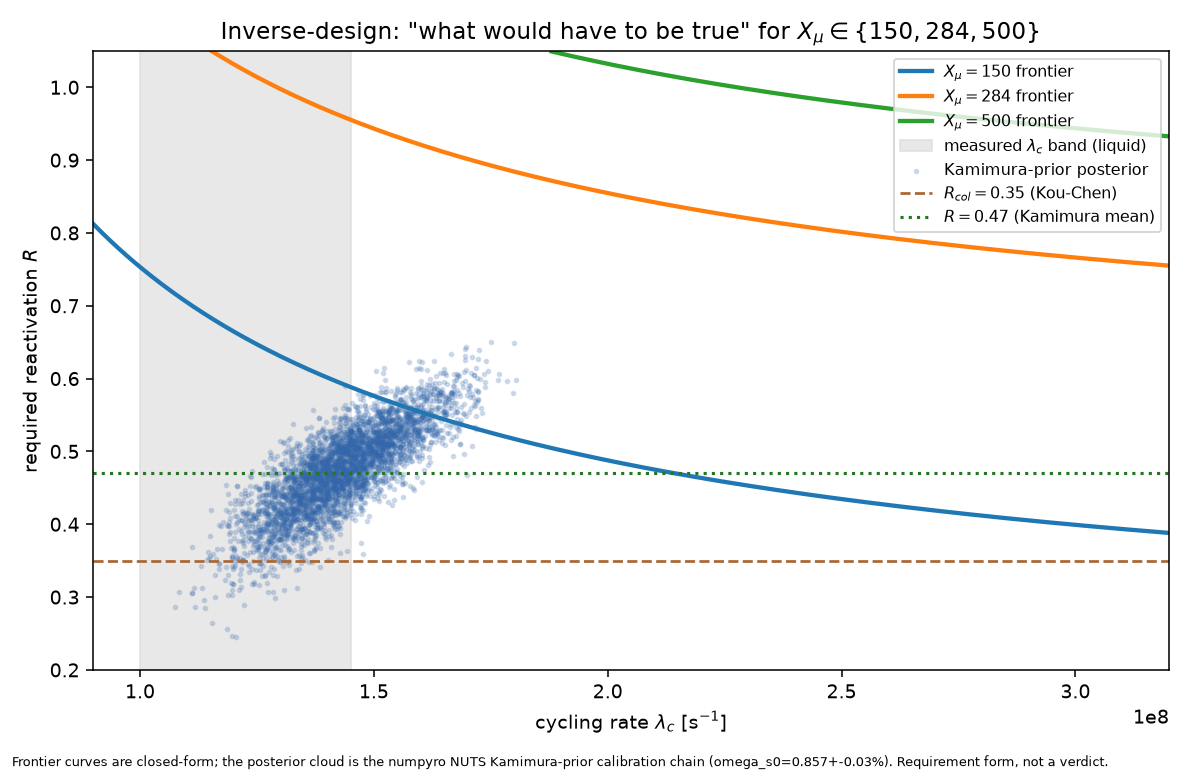
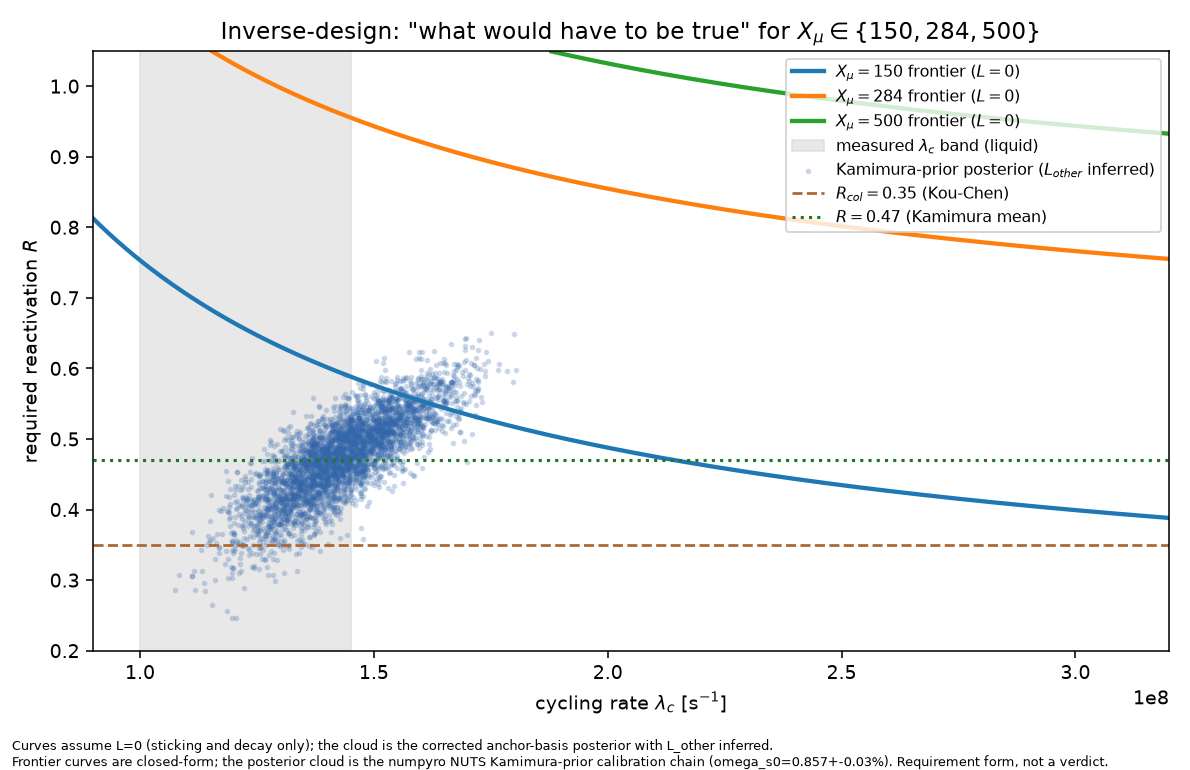
State the side-channel loss in the frontier explanations and the loss conditions of the frontier figure: the decay-free R floor is 1 - (1/X - L)/omega_s0 at fixed L, no finite cycling rate reaches a target when 1/X <= omega_s_eff + L, and the figure and its FRONTIER.md caption say its curves assume 

diff --git a/scripts/generate_frontier.py b/scripts/generate_frontier.py
@@ -58,6 +58,9 @@ R_KAMIMURA_REFERENCE = f"{_R_KAM['mean']:.2f}"
 R_KAMIMURA_SD = f"{_R_KAM['sd']:.2f}"
 # The side-channel loss per cycle at the liquid anchor fill, as the FRACTION frontier.r_required takes.
 L_ANCHOR = sidechannels.ANCHOR_L_OTHER_FRACTION
+# The figure overlays two loss conditions: its curves are r_required at L = 0, its cloud is model_w's posterior.
+FIGURE_CONDITIONS = ("Curves assume L=0 (sticking and decay only); the cloud is the corrected anchor-basis "
+                     "posterior with L_other inferred.")
 
 # Solver worked-example target: a modest q_net (above the nominal operating point) chosen so ALL FOUR free
 # variables have a finite, feasible required value -- a clean cross-check of the four inverses at once.
@@ -221,7 +224,7 @@ digit on its own; it is the general capability, gate-checked against the exact a
 lambda_c band shaded, the **Kamimura-prior calibration posterior cloud** (one NUTS chain on
 `openmucf.calibrate.model_w` with the Kamimura omega_s0 = 0.857 +- 0.03 % prior; the R = {H["R_kamimura"]}
 marker is the posterior mean `CALIBRATION.md` prints), and the R_col = {H["R_col"]} / R = {H["R_kamimura"]} reference markers overlaid --
-the "what would have to be true" picture. (Regenerated every audit; never byte-diffed.)
+the "what would have to be true" picture. {FIGURE_CONDITIONS} (Regenerated every audit; never byte-diffed.)
 """
 
 
@@ -302,12 +305,13 @@ def _write_figure(H: dict[str, str]) -> None:
     fig, ax = plt.subplots(figsize=(8.5, 5.5))
     lc_curve = np.linspace(0.9e8, 3.2e8, 400)
     for X in X_MU_TARGETS:
-        Rv = np.array([r_required(X, float(lc)) for lc in lc_curve])
+        Rv = np.array([r_required(X, float(lc), l_other=0.0) for lc in lc_curve])
         Rv[(Rv < 0.0) | (Rv > 1.05)] = np.nan  # only the physical band
-        ax.plot(lc_curve, Rv, lw=2.2, label=rf"$X_\mu={X:.0f}$ frontier")
+        ax.plot(lc_curve, Rv, lw=2.2, label=rf"$X_\mu={X:.0f}$ frontier ($L=0$)")
 
     ax.axvspan(*LAMBDA_C_BAND, color="0.85", alpha=0.6, label="measured $\\lambda_c$ band (liquid)")
-    ax.scatter(lc_post, R_post, s=4, alpha=0.18, color="#3366aa", label="Kamimura-prior posterior")
+    ax.scatter(lc_post, R_post, s=4, alpha=0.18, color="#3366aa",
+               label="Kamimura-prior posterior ($L_{other}$ inferred)")
     ax.axhline(float(R_COL_REFERENCE), color="#aa6633", ls="--", lw=1.4,
                label=f"$R_{{col}}={R_COL_REFERENCE}$ (Kou-Chen)")
     ax.axhline(float(R_KAMIMURA_REFERENCE), color="#227722", ls=":", lw=1.6,
@@ -319,13 +323,14 @@ def _write_figure(H: dict[str, str]) -> None:
     ax.set_xlim(0.9e8, 3.2e8)
     ax.set_title(r'Inverse-design: "what would have to be true" for $X_\mu\in\{150,284,500\}$')
     ax.legend(fontsize=8, loc="upper right")
+    fig.text(0.01, 0.026, FIGURE_CONDITIONS, fontsize=6.5)
     fig.text(
         0.01, 0.005,
         "Frontier curves are closed-form; the posterior cloud is the numpyro NUTS Kamimura-prior "
         "calibration chain (omega_s0=0.857+-0.03%). Requirement form, not a verdict.",
         fontsize=6.5,
     )
-    fig.tight_layout(rect=(0, 0.02, 1, 1))
+    fig.tight_layout(rect=(0, 0.045, 1, 1))
     fig.savefig("figures/frontier.png", dpi=140)
     plt.close(fig)
 

diff --git a/openmucf/frontier.py b/openmucf/frontier.py
@@ -73,8 +73,8 @@ def r_required(x_mu_target, lambda_c, omega_s0=OMEGA_S0_DEFAULT, lambda_0=LAMBDA
     ``l_other`` (L) is a side-channel loss per cycle as a bare FRACTION (``openmucf.sidechannels``
     ``ANCHOR_L_OTHER_FRACTION``); the default 0.0 is sticking and decay as the only losses.
 
-    ``lambda_c`` may be ``math.inf`` -- the decay-free limit that gives the density-independent R floor
-    (``R = 1 - (1/X)/omega_s0``). ``omega_s0`` is a bare fraction (default = Kamimura 0.857 %). The result
+    ``lambda_c`` may be ``math.inf`` -- the decay-free limit that gives the R floor at fixed L
+    (``R = 1 - (1/X - L)/omega_s0``). ``omega_s0`` is a bare fraction (default = Kamimura 0.857 %). The result
     can exceed 1 or go negative: the honest readout that the target is unreachable / trivially reachable at
     the given ``(lambda_c, omega_s0)``. Pure ``float`` arithmetic -> byte-stable cross-architecture.
     """
@@ -87,9 +87,9 @@ def lambda_c_required(x_mu_target, R, omega_s0=OMEGA_S0_DEFAULT, lambda_0=LAMBDA
 
     Inverse of the same forward map: ``lambda_c = lambda_0 / (1/X - omega_s_eff - L)`` with
     ``omega_s_eff = omega_s0*(1-R)`` and ``l_other`` (L) a side-channel loss per cycle as a bare FRACTION.
-    Returns ``math.inf`` when the sticking floor alone already caps the yield at or below the target
-    (``1/X <= omega_s_eff`` i.e. ``x_mu_target >= 1/omega_s_eff``): no finite cycling rate can reach it --
-    the honest "unreachable at this R" readout. Pure ``float`` arithmetic.
+    Returns ``math.inf`` when the combined sticking and side-channel loss floor already caps the yield at or
+    below the target (``1/X <= omega_s_eff + L``): no finite cycling rate can reach it. Pure ``float``
+    arithmetic.
     """
     ose = effective_sticking(omega_s0, R)
     denom = 1.0 / x_mu_target - ose - l_other

diff --git a/FRONTIER.md b/FRONTIER.md
@@ -75,4 +75,4 @@ digit on its own; it is the general capability, gate-checked against the exact a
 lambda_c band shaded, the **Kamimura-prior calibration posterior cloud** (one NUTS chain on
 `openmucf.calibrate.model_w` with the Kamimura omega_s0 = 0.857 +- 0.03 % prior; the R = 0.47
 marker is the posterior mean `CALIBRATION.md` prints), and the R_col = 0.35 / R = 0.47 reference markers overlaid --
-the "what would have to be true" picture. (Regenerated every audit; never byte-diffed.)
+the "what would have to be true" picture. Curves assume L=0 (sticking and decay only); the cloud is the corrected anchor-basis posterior with L_other inferred. (Regenerated every audit; never byte-diffed.)
